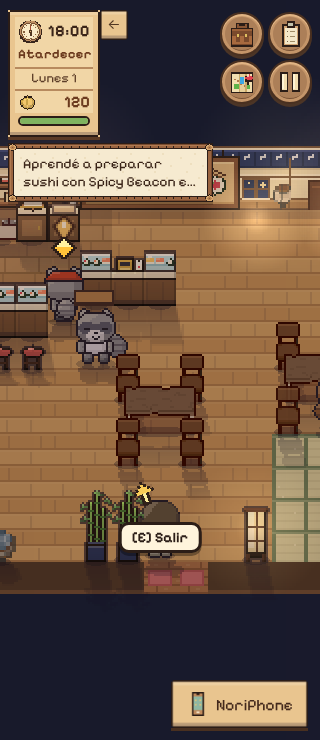
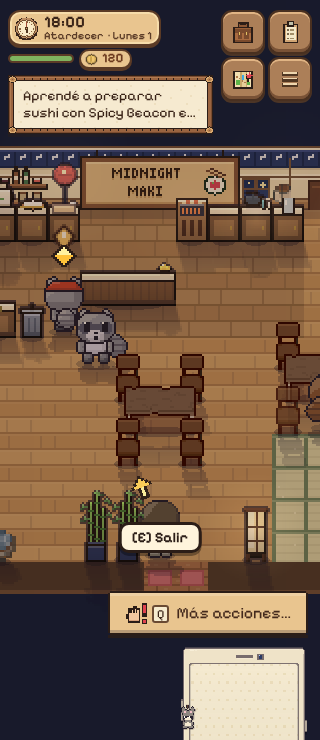
HUD compacto: tira única de reloj y energía, botones más chicos con menú, pedidos plegables en un chip
Claude-Session: https://claude.ai/code/session_01Q9tFTKZvvquF6SSLj5Ec4x

diff --git a/src/ui/galleyUi.ts b/src/ui/galleyUi.ts
@@ -122,24 +122,37 @@ export function runCutBar(spec: CutSpec, label: string, onDone: (verdict: CutVer
 // ------------------------------------------------------------------ tickets
 let ticketsEl: HTMLElement | null = null;
 let ticketsKey = '';
+/** The orders fold into a small chip ("Pedidos 3 ▾") so they do not cover the kitchen; the choice is remembered. */
+let ticketsOpen = (() => { try { return localStorage.getItem('mm_ticketsopen') === '1'; } catch { return false; } })();
 
 export function showTickets(list: Ticket[], visible: boolean, hint: string | null) {
   if (!visible || (!list.length && !hint)) { ticketsEl?.classList.add('hidden'); return; }
-  const key = JSON.stringify(list.map((t) => [t.id, t.lines.map((l) => [l.recipe, l.waiting, l.ready]), Math.round(t.patience * 20), t.impatient])) + (hint ?? '');
+  const key = JSON.stringify(list.map((t) => [t.id, t.lines.map((l) => [l.recipe, l.waiting, l.ready]), Math.round(t.patience * 20), t.impatient])) + (hint ?? '') + ticketsOpen;
   if (!ticketsEl) { ticketsEl = h('div', { class: 'gl-tickets', 'aria-label': 'Pedidos de la cocina' }); root().append(ticketsEl); }
   ticketsEl.classList.remove('hidden');
   if (key === ticketsKey) return;
   ticketsKey = key;
-  const cards = list.slice(0, 3).map((t) => h('div', { class: 'gl-ticket paper' + (t.done ? ' done' : '') + (t.impatient ? ' late' : '') },
+  const pending = list.filter((t) => !t.done).length;
+  const late = list.some((t) => t.impatient && !t.done);
+  const chip = list.length ? h('button', {
+    type: 'button', class: 'gl-orders-chip paper' + (late ? ' late' : ''), 'aria-expanded': String(ticketsOpen), 'aria-label': `Pedidos: ${pending} pendientes`,
+    onclick: () => {
+      ticketsOpen = !ticketsOpen;
+      try { localStorage.setItem('mm_ticketsopen', ticketsOpen ? '1' : '0'); } catch { /* ignore */ }
+      ticketsKey = '';
+      showTickets(list, visible, hint);
+    },
+  }, h('b', null, 'Pedidos'), h('span', { class: 'gl-count' }, String(pending || list.length)), h('span', { class: 'gl-caret', 'aria-hidden': 'true' }, ticketsOpen ? '▴' : '▾')) : null;
+  const cards = ticketsOpen ? list.slice(0, 3).map((t) => h('div', { class: 'gl-ticket paper' + (t.done ? ' done' : '') + (t.impatient ? ' late' : '') },
     h('div', { class: 'gl-ticket-head' }, h('b', null, t.label), h('span', { class: 'hint' }, t.who)),
     ...t.lines.map((l) => h('div', { class: 'gl-line' },
       h('span', { class: 'gl-qty' }, `${l.waiting + l.ready}×`),
       h('span', { class: 'gl-name' }, l.name),
       h('span', { class: 'gl-state' + (l.waiting ? '' : ' ok') }, l.waiting ? (l.ready ? `${l.ready} listo` : 'pendiente') : '✓ en el mostrador'),
       h('div', { class: 'gl-needs' }, [...(l.cup ? ['Vaso'] : []), ...l.needs.map((n) => `${n.count > 1 ? n.count + '× ' : ''}${itemLabel({ kind: 'ing', uid: 0, ing: n.ing, form: n.form, q: 2 })}`)].join(' · ')))),
-    h('div', { class: 'gl-patience', role: 'img', 'aria-label': `Paciencia ${Math.round(t.patience * 100)}%` }, h('i', { style: { width: `${Math.round(t.patience * 100)}%` } }))));
-  const more = list.length > 3 ? [h('div', { class: 'gl-more' }, `+${list.length - 3} más`)] : [];
-  ticketsEl.replaceChildren(...cards, ...more, ...(hint ? [h('div', { class: 'gl-hint paper' }, hint)] : []));
+    h('div', { class: 'gl-patience', role: 'img', 'aria-label': `Paciencia ${Math.round(t.patience * 100)}%` }, h('i', { style: { width: `${Math.round(t.patience * 100)}%` } })))) : [];
+  const more = ticketsOpen && list.length > 3 ? [h('div', { class: 'gl-more' }, `+${list.length - 3} más`)] : [];
+  ticketsEl.replaceChildren(...(chip ? [chip] : []), ...cards, ...more, ...(hint ? [h('div', { class: 'gl-hint paper' }, hint)] : []));
 }
 
 // ------------------------------------------------------------------ tutorial card

diff --git a/src/ui/hud.css b/src/ui/hud.css
@@ -178,3 +178,48 @@ body.input-touch .game-hud .hud-phone { display: none; }
   display: inline-grid; place-items: center; min-width: 20px; height: 20px; padding: 0 4px; border-radius: 4px;
   background: #4f3826; color: #fff4dc; font: inherit; font-size: 13px; line-height: 1;
 }
+
+/* ---- Compact HUD: less of the screen is covered. A single strip (clock, hour, day, energy, coins) and smaller buttons. ---- */
+.game-hud .hud-status-wrap { display: flex; align-items: center; gap: 6px; padding-right: 0; }
+.game-hud .hud-status {
+  width: auto; display: flex; flex-direction: row; flex-wrap: nowrap; align-items: center; gap: 6px; padding: 3px 9px 3px 5px;
+  border: 2px solid #5b3b26; border-image: none; border-radius: 12px;
+  background: #e9c58f; box-shadow: inset 0 0 0 2px #f6dcaa, 0 2px 0 #5b3b26; font-size: 14px;
+}
+.game-hud .hud-clock { width: 28px; height: 28px; }
+.game-hud .hud-time-col { display: flex; flex-direction: column; line-height: 1.05; min-width: 0; }
+.game-hud .hud-digital { font-size: 19px; letter-spacing: .3px; }
+.game-hud .hud-sub { display: flex; gap: 4px; font-size: 11px; color: #5c3d28; white-space: nowrap; }
+.game-hud .hud-status .time, .game-hud .hud-date { display: inline; min-height: 0; padding: 0; background: none; border: 0; font-size: 11px; font-weight: 600; letter-spacing: 0; text-align: left; color: #5c3d28; }
+.game-hud .hud-date::before { content: '· '; }
+.game-hud .hud-meters { display: flex; flex-direction: column; gap: 3px; min-width: 74px; }
+.game-hud .hud-meters .hud-energy { margin: 0; height: 9px; border-color: #5b3b26; }
+.game-hud .hud-meters .hud-coins {
+  display: flex; align-items: center; gap: 4px; min-height: 0; padding: 1px 7px 1px 3px; border: 2px solid #5b3b26; border-radius: 10px;
+  background: #e9c58f; box-shadow: 0 2px 0 #5b3b26; align-self: flex-start;
+}
+.game-hud .hud-meters .hud-coins canvas { width: 14px; height: 14px; }
+.game-hud .hud-meters .hud-coins .coin { font-size: 13px; line-height: 1; }
+.game-hud .hud-buttons { gap: 5px; padding-top: 0; }
+.game-hud .hud-buttons .icon-btn {
+  width: 44px; height: 44px; border-radius: 11px;
+  box-shadow: inset 0 2px 0 #e0b484, inset 0 -3px 0 #795236, 0 2px 0 #4c3526;
+}
+.game-hud .hud-buttons .icon-btn .skin-icon { width: 22px; height: 22px; }
+@media (max-width: 600px) {
+  .game-hud .hud-buttons .icon-btn { width: 44px; height: 44px; }
+  .game-hud .hud-digital { font-size: 17px; }
+  .game-hud .hud-meters { min-width: 62px; }
+}
+@media (max-width: 380px) {
+  .game-hud .hud-status { padding: 2px 7px 2px 4px; }
+  .game-hud .hud-clock { width: 24px; height: 24px; }
+  .game-hud .hud-digital { font-size: 16px; }
+  .game-hud .hud-meters { min-width: 54px; }
+  .game-hud .hud-buttons .icon-btn { width: 44px; height: 44px; }
+  .game-hud .hud-buttons { gap: 3px; }
+}
+/* the energy bar and the coins sit under the strip on every screen size */
+.game-hud .hud-status-wrap { flex-direction: column; align-items: flex-start; gap: 3px; }
+.game-hud .hud-meters { flex-direction: row; align-items: center; gap: 5px; min-width: 0; }
+.game-hud .hud-meters .hud-energy { width: 66px; flex: none; }

diff --git a/src/ui/galley.css b/src/ui/galley.css
@@ -31,7 +31,7 @@
 .gl-cut.done .gl-press { visibility: hidden; }
 @keyframes gl-pop { from { transform: scale(.6); opacity: 0; } to { transform: scale(1); opacity: 1; } }
 
-.gl-tickets { position: fixed; right: calc(8px + var(--safe-r)); top: calc(84px + var(--safe-t)); width: min(176px, 46vw); z-index: 22; display: flex; flex-direction: column; gap: 6px; pointer-events: none; }
+.gl-tickets { position: fixed; right: calc(8px + var(--safe-r)); top: calc(66px + var(--safe-t)); width: min(176px, 46vw); align-items: flex-end; z-index: 22; display: flex; flex-direction: column; gap: 6px; pointer-events: none; }
 .gl-tickets.hidden { display: none; }
 .gl-ticket { padding: 6px 8px 8px; border-radius: 10px; box-shadow: 0 3px 10px rgba(63, 46, 34, .25); font-size: .8em; }
 .gl-ticket.done { background: #f1f6e8; border-color: var(--ui-sage, #a9b89b); }
@@ -49,7 +49,7 @@
 .gl-ticket.late .gl-patience i { background: #d98a7a; }
 .gl-more { text-align: center; font-size: .75em; color: var(--ui-brown, #765c47); }
 .gl-hint { padding: 5px 8px; font-size: .78em; border-radius: 10px; }
-@media (max-width: 520px) { .gl-tickets { top: calc(78px + var(--safe-t)); width: min(150px, 42vw); } .gl-fridge-grid { grid-template-columns: repeat(3, minmax(0, 1fr)); } }
+@media (max-width: 520px) { .gl-tickets { top: calc(62px + var(--safe-t)); width: min(150px, 42vw); } .gl-fridge-grid { grid-template-columns: repeat(3, minmax(0, 1fr)); } }
 @media (prefers-reduced-motion: reduce) { .gl-verdict.show { animation: none; } }
 .gl-tut { position: fixed; left: 50%; transform: translateX(-50%); bottom: calc(148px + var(--safe-b)); width: min(300px, 56vw); z-index: 23; padding: 8px 10px; border-radius: 12px; display: flex; flex-direction: column; gap: 4px; }
 .gl-tut p { margin: 0; font-size: .86em; line-height: 1.25; }
@@ -57,3 +57,12 @@
 .gl-tut .btn { align-self: flex-end; min-height: 32px; padding: 2px 10px; }
 .gl-cut-step { font-weight: 400; opacity: .8; }
 @media (max-width: 520px) { .gl-tut { width: min(260px, 52vw); bottom: calc(176px + var(--safe-b)); } }
+
+@media (min-width: 900px) and (min-height: 560px) { .gl-tickets { top: calc(88px + var(--safe-t)); } }
+.gl-tickets > .gl-ticket, .gl-tickets > .gl-hint { align-self: stretch; }
+.gl-orders-chip { pointer-events: auto; display: inline-flex; align-items: center; gap: 6px; min-height: 34px; padding: 3px 10px; border-radius: 12px; border: 2px solid #5b3b26; background: #fff8ec; color: #3a2a1e; font: inherit; font-size: .9em; box-shadow: 0 2px 0 #5b3b26; cursor: pointer; }
+.gl-orders-chip .gl-count { display: inline-grid; place-items: center; min-width: 20px; height: 20px; padding: 0 5px; border-radius: 10px; background: #c8483f; color: #fff; font-size: .85em; font-weight: 700; }
+.gl-orders-chip.late .gl-count { animation: gl-late 1s ease-in-out infinite alternate; }
+.gl-orders-chip .gl-caret { font-size: .8em; opacity: .75; }
+@keyframes gl-late { to { transform: scale(1.18); } }
+.reduce-motion .gl-orders-chip.late .gl-count { animation: none; }

diff --git a/src/ui/hud.ts b/src/ui/hud.ts
@@ -55,25 +55,17 @@ export function mountHud(hd: HudHandlers) {
   clockEl = h('canvas', { class: 'hud-clock', width: 32, height: 32, role: 'img', 'aria-label': 'Hora del juego' });
   digitalEl = h('time', { class: 'hud-digital' });
   energyEl = h('div', { class: 'hud-energy', role: 'img' }, h('i'));
-  const status = h('div', { class: 'hud-status' }, h('div', { class: 'hud-time-row' }, clockEl, digitalEl), h('div', { class: 'time' }, timeEl), dateEl, h('div', { class: 'hud-coins' }, iconElement({ type: 'coin' }), coinEl), energyEl);
-  const toggle = h('button', {
-    type: 'button', class: 'hud-status-toggle', 'aria-label': 'Contraer fecha y monedas', 'aria-expanded': 'true',
-    onclick: () => {
-      const collapsed = status.classList.toggle('is-collapsed');
-      root?.classList.toggle('hud-status-collapsed', collapsed);
-      toggle.setAttribute('aria-expanded', String(!collapsed));
-      toggle.setAttribute('aria-label', collapsed ? 'Mostrar fecha y monedas' : 'Contraer fecha y monedas');
-      toggle.textContent = collapsed ? '→' : '←';
-    },
-  }, '←');
-  const statusWrap = h('div', { class: 'hud-status-wrap' }, status, toggle);
+  // one compact strip: the clock with the hour and the day, and next to it the energy bar and the coins
+  const status = h('div', { class: 'hud-status' }, clockEl, h('div', { class: 'hud-time-col' }, digitalEl, h('div', { class: 'hud-sub' }, h('span', { class: 'time' }, timeEl), dateEl)));
+  const meters = h('div', { class: 'hud-meters' }, energyEl, h('div', { class: 'hud-coins' }, iconElement({ type: 'coin' }), coinEl));
+  const statusWrap = h('div', { class: 'hud-status-wrap' }, status, meters);
   const btn = (icon: string, label: string, action: GameAction, fn: () => void) => {
     const b = h('button', { type: 'button', class: 'icon-btn', onclick: () => { audio.sfxPlay('open'); fn(); } }, skinIconEl(icon));
     chrome.push({ el: b, action, name: label });
     return b;
   };
   chrome.length = 0;
-  const buttons = h('div', { class: 'hud-buttons' }, btn('bag', 'Mochila', 'inventory', () => handlers.bag()), btn('clipboard', 'Misiones', 'journal', () => handlers.journal()), btn('map', 'Mapa', 'map', () => import('./worldmap').then((m) => m.openWorldMap())), btn('pause', 'Pausa', 'cancel', () => { void import('./menus').then((m) => m.openPauseMenu()); }));
+  const buttons = h('div', { class: 'hud-buttons' }, btn('bag', 'Mochila', 'inventory', () => handlers.bag()), btn('clipboard', 'Misiones', 'journal', () => handlers.journal()), btn('map', 'Mapa', 'map', () => import('./worldmap').then((m) => m.openWorldMap())), btn('menu', 'Pausa', 'cancel', () => { void import('./menus').then((m) => m.openPauseMenu()); }));
   questEl = h('div', {
     class: 'hud-quest', role: 'button', tabindex: 0, title: 'Ver detalles de la misión',
     onclick: () => {

diff --git a/e2e/hud-clock.spec.ts b/e2e/hud-clock.spec.ts
@@ -30,7 +30,7 @@ test('time and buttons fit PC and small phones in both orientations', async ({ p
     await page.setViewportSize({ width, height });
     const rects = await page.locator('.hud-status-wrap, .hud-buttons, .hud-digital, .hud-clock, .hud-quest').evaluateAll(els => els.map(el => el.getBoundingClientRect().toJSON()));
     const quest = rects[rects.length - 1];
-    const pair = await page.locator('.hud-time-row').boundingBox();
+    const pair = await page.locator('.hud-status').boundingBox();
     expect(pair).toBeTruthy();
     for (const r of rects) { expect(r.left).toBeGreaterThanOrEqual(0); expect(r.right).toBeLessThanOrEqual(width); expect(r.bottom).toBeLessThanOrEqual(height); }
     const s = await page.locator('.hud-status-wrap').boundingBox();
@@ -42,7 +42,7 @@ test('time and buttons fit PC and small phones in both orientations', async ({ p
     expect(quest.top).toBeGreaterThan(pair!.y + pair!.height);
     await page.screenshot({ path: info.outputPath(`hud-${width}.png`) });
   }
-  await page.getByRole('button', { name: 'Contraer fecha y monedas' }).click();
+  // the strip, the energy bar and the coins are all there (there is no folding any more)
   await expect(page.locator('.hud-digital')).toBeVisible(); await expect(page.locator('.hud-clock')).toBeVisible();
-  await expect(page.locator('.hud-date')).toBeHidden();
+  await expect(page.locator('.hud-energy')).toBeVisible(); await expect(page.locator('.hud-meters .coin')).toBeVisible();
 });

diff --git a/docs/cocina-fisica.md b/docs/cocina-fisica.md
@@ -142,3 +142,10 @@ El modelo (`Galley`) expone las mismas operaciones para el jugador y para cualqu
 - **Menú principal**: aparece directo, sin «tocar para entrar»; el primer toque o tecla inicia la música.
 - **iPhone (app en el inicio)**: la página queda fija (sin desplazamiento) y el lienzo cubre también la zona del indicador de inicio.
 - **Luces**: los halos aditivos son más suaves y se atenúan entre sí para que la noche no parezca de día.
+
+## HUD compacto (añadido)
+
+- Reloj, hora, período y día en una sola tira; debajo la barra de energía y las monedas. Ya no hay panel plegable.
+- Botones de arriba más chicos y redondeados; el último (☰) abre el menú de pausa.
+- Pedidos de la cocina: chip «Pedidos N ▾» plegado por defecto (se recuerda lo que elijas); en rojo parpadeante si algún cliente se impacienta.
+- Se dejaron como estaban: la tira de misión y el celu asomando abajo a la derecha.
